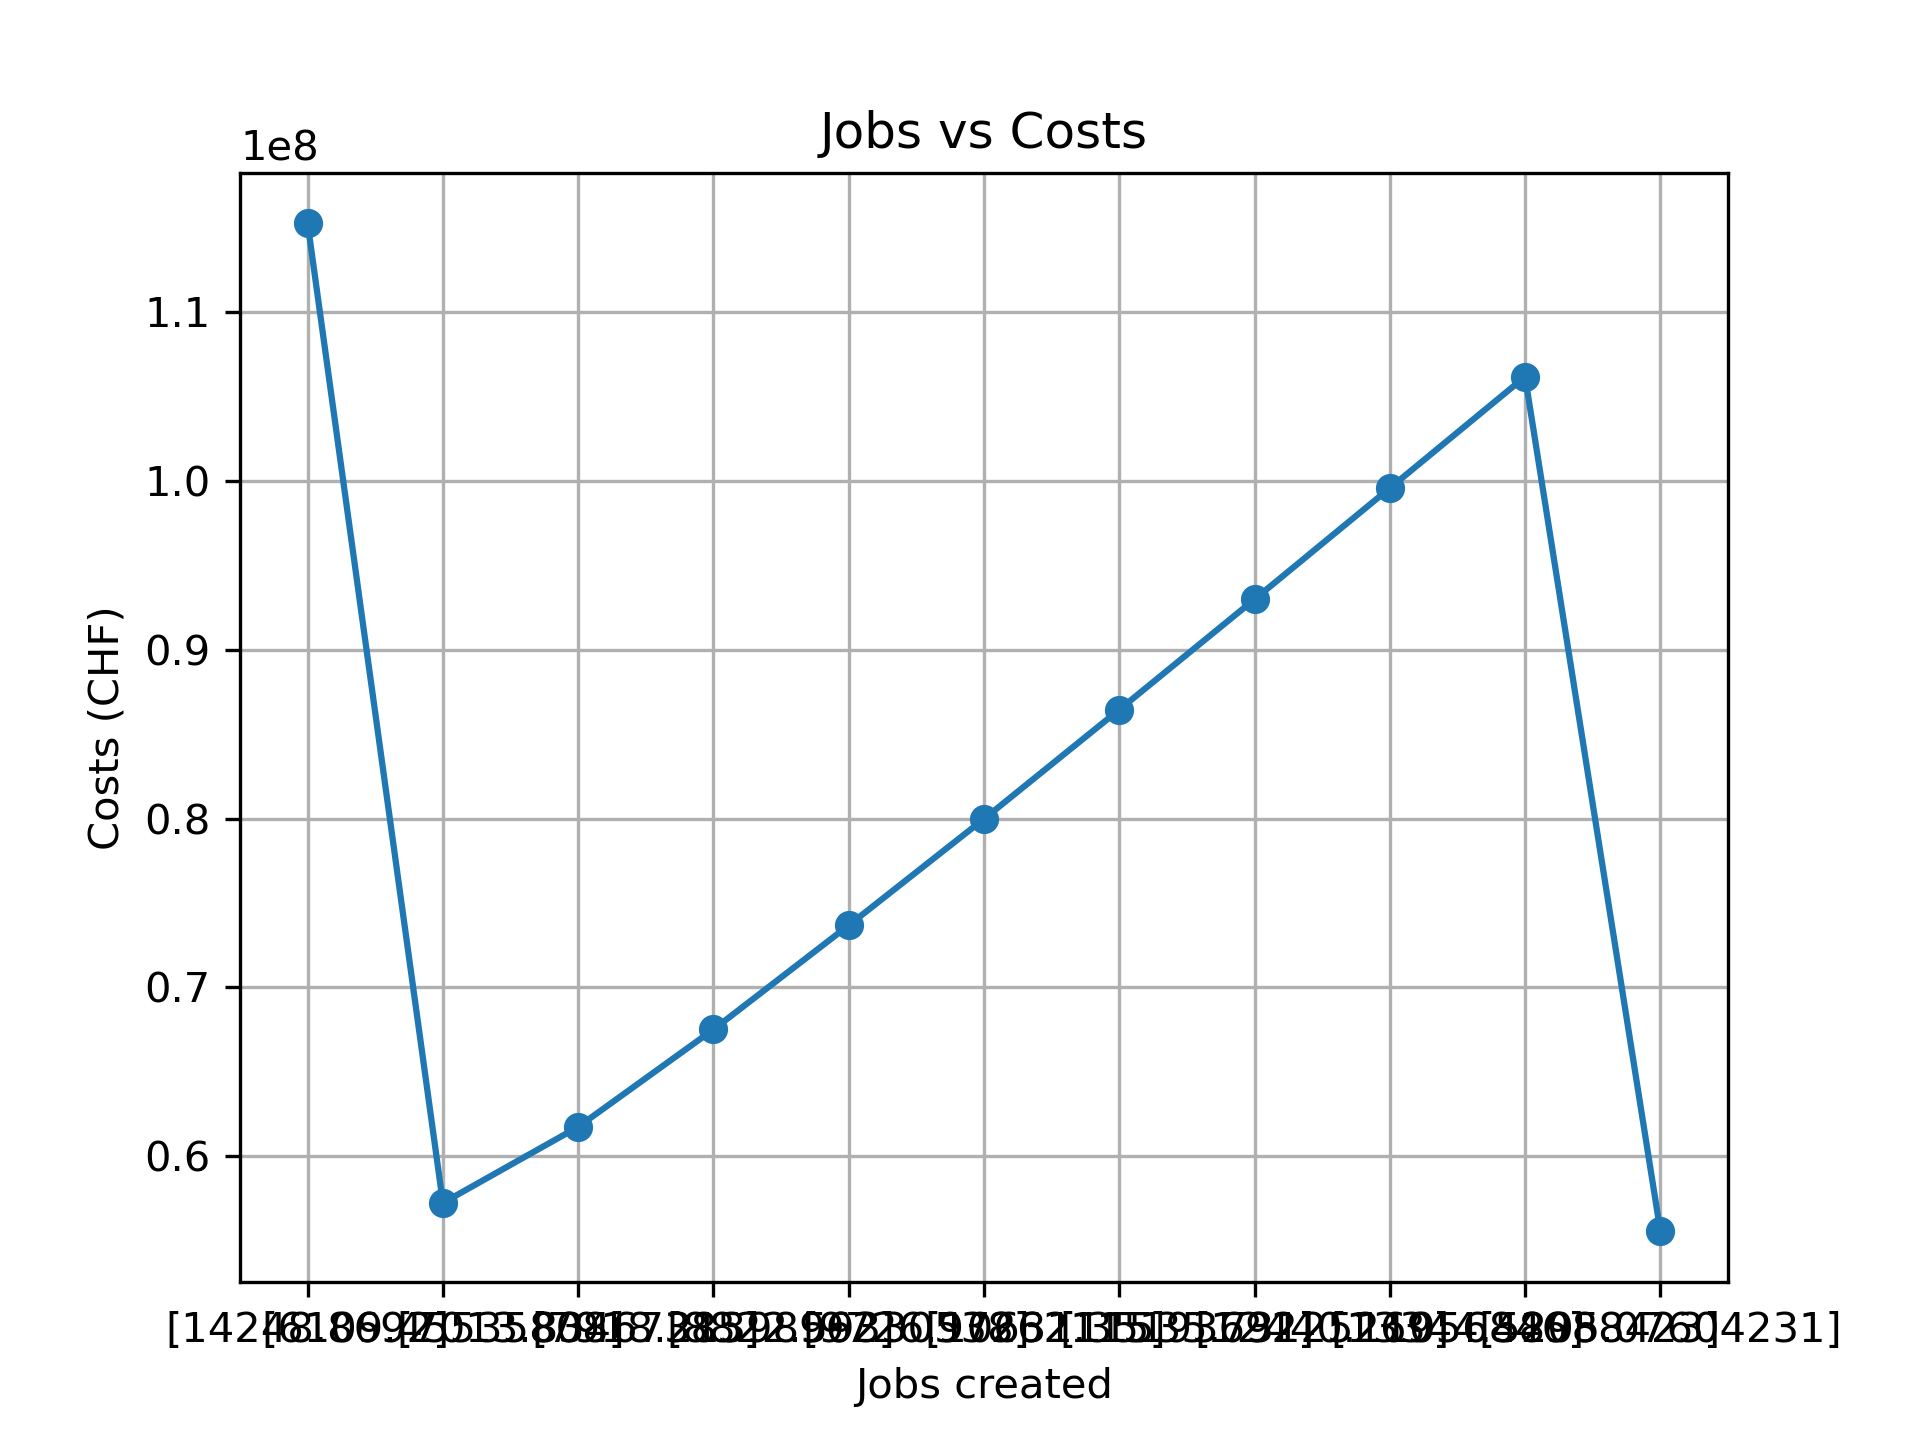
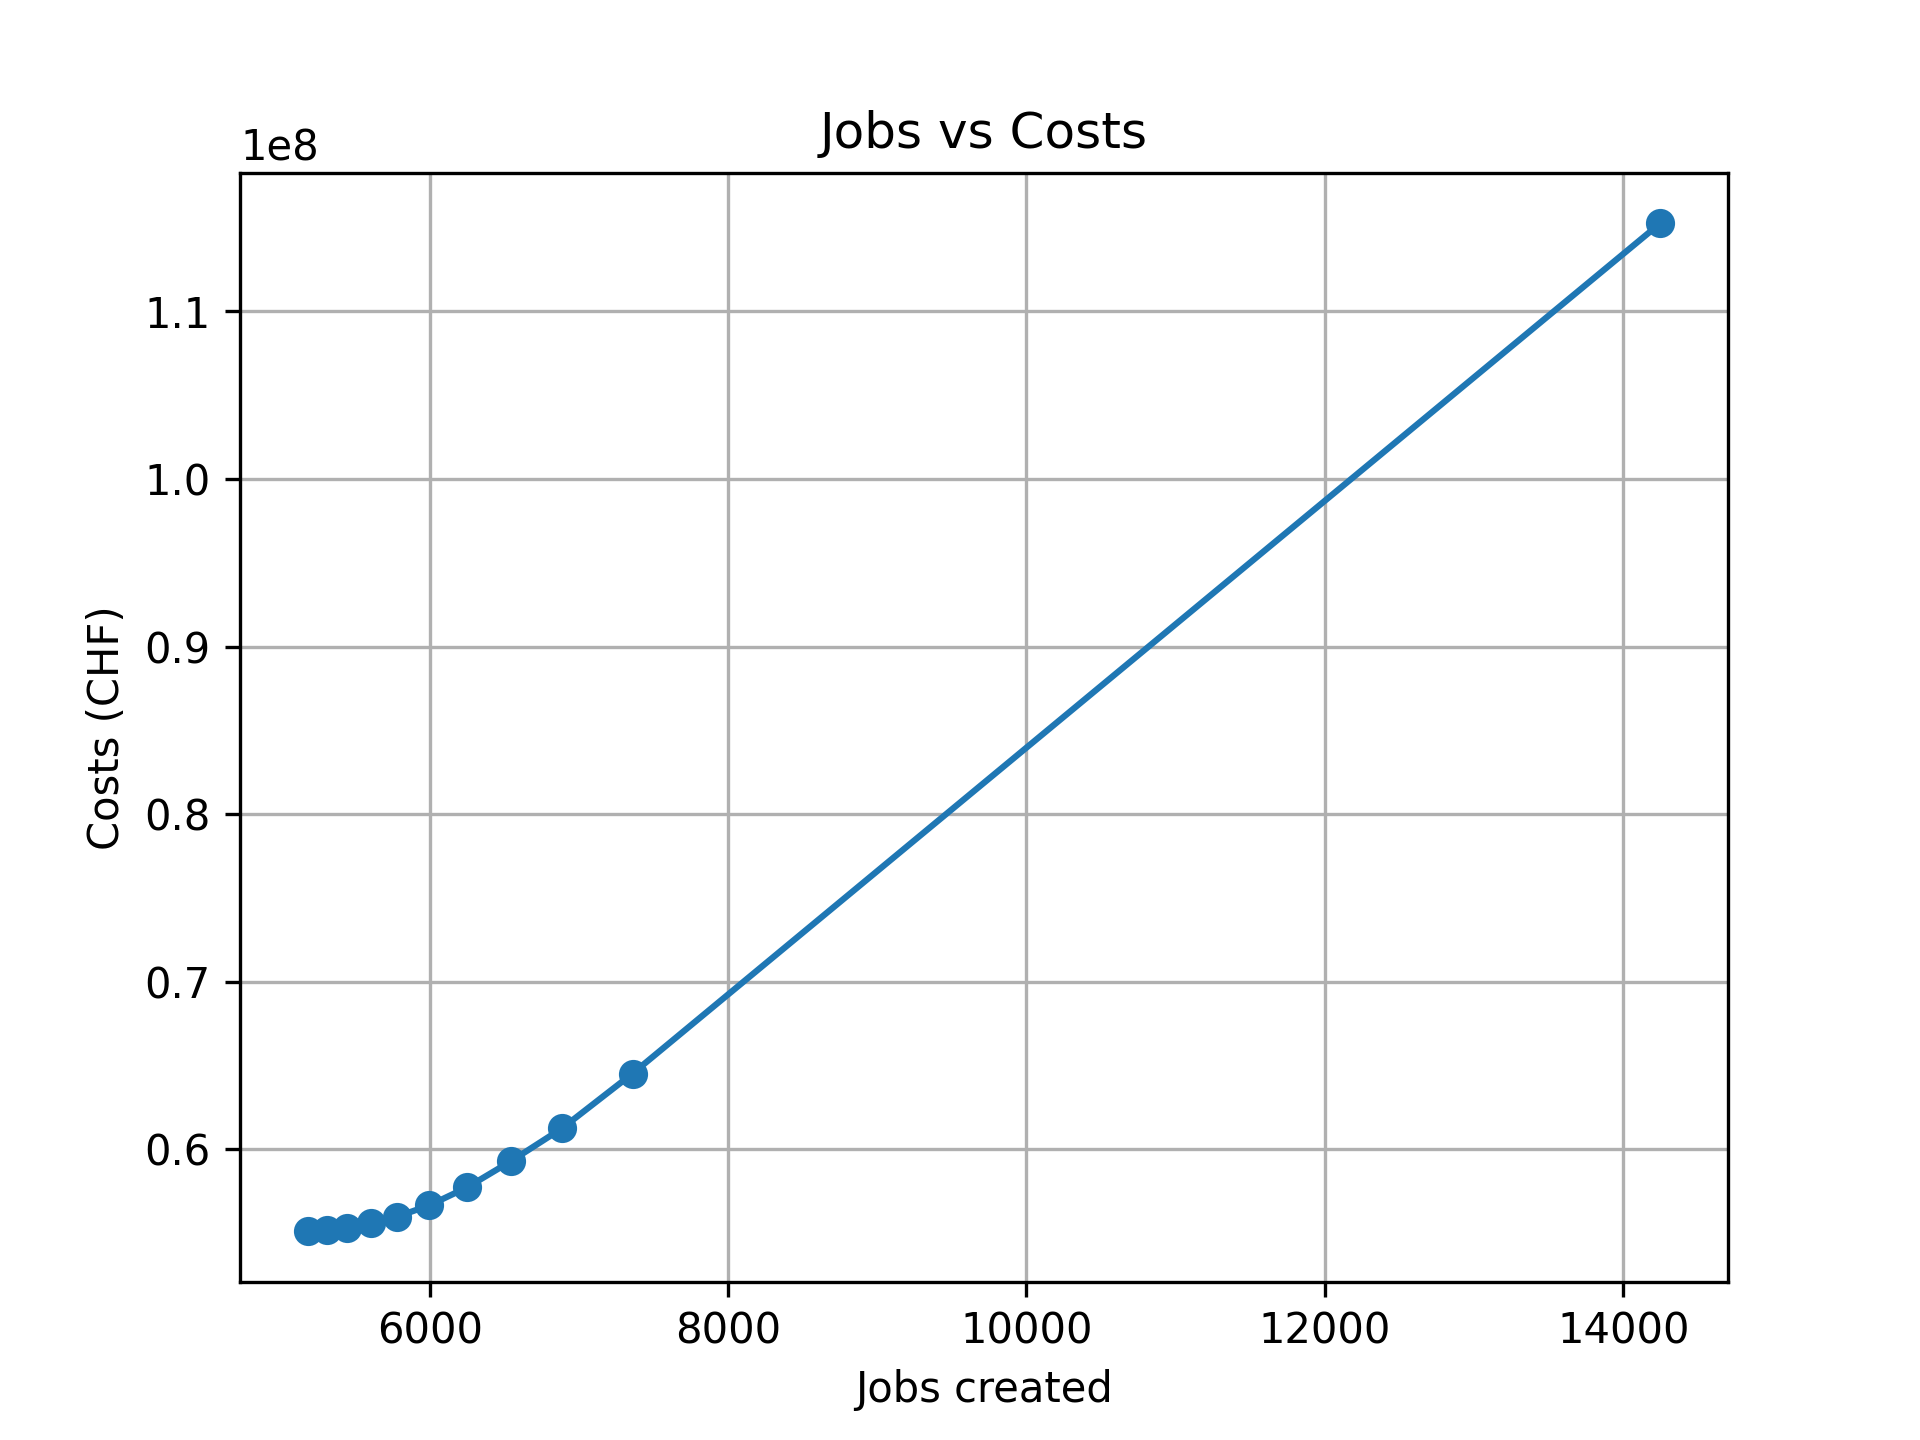
Fix jobs created plot

diff --git a/EnergyHub.py b/EnergyHub.py
@@ -114,10 +114,10 @@ price_gas = 0.21*1.4  # Natural gas price [CHF, EUR, USD/kWh]  # USD: 0.231*1.4;
 esc_gas = 0.02  # Escalation rate per year for natural gas price
 price_elec = 0.16  # Grid electricity price [CHF/kWh]
 esc_elec = 0.02  # Escalation rate per year for electricity price
-exp_price_elec = 0.0  # Feed-in tariff for exported electricity [CHF/kWh] #ToDO find this for Brazil ###### ---- asuumption germany feed in/ new assumption no export possible
+exp_price_elec = 0.0  # Feed-in tariff for exported electricity [CHF/kWh] #assumption no export possible
 esc_elec_exp = 0.02  # Escalation rate per year for feed-in tariff for exported electricity [%]
 co2_gas = 0.198  # Natural gas emission factor [kgCO2/kWh]
-co2_elec = 0.1295  # Electricity emission factor [kgCO2/kWh] #ToDO find this for Brazil https://www.climatiq.io/data/emission-factor/2ac52a91-5922-4f9f-8def-f4302f4ecf55
+co2_elec = 0.1295  # Electricity emission factor [kgCO2/kWh] # https://www.climatiq.io/data/emission-factor/2ac52a91-5922-4f9f-8def-f4302f4ecf55
 
 # Constraint definitions
 # ----------------------
@@ -163,7 +163,7 @@ Cap_gshp = cp.Variable(1)  # Capacity of ground-source heat pump [kW]
 P_in_gshp = cp.Variable(Horizon)  # Input energy to ground-source heat pump [kWh]
 P_out_gshp = cp.Variable(Horizon)  # Heat generation by ground-source heat pump [kWh]
 
-# GSHP constraints  --------- not considered
+# GSHP constraints
 # ----------------
 gshp_con = [Cap_gshp >= 0, P_out_gshp == P_in_gshp * eff_gshp, P_in_gshp >= 0, P_out_gshp >= 0, P_out_gshp <= Cap_gshp]
 
@@ -439,7 +439,8 @@ plt.show()
 
 
 
-
+"""
+"""
 #Multiobjective Optimization -> cost and jobs
 eta = [i/10 for i in range(1,10,1)]
 sol_cost = []
@@ -459,14 +460,13 @@ prob.solve(solver='SCIPY')
 sol_cost.append(cost.value)
 sol_jobs.append(jobs.value)
 sol_co2.append(co2.value)
-
 for i in eta:
     print('Multi Objective Optimization with eta = ', i)
-    jobs_con = [jobs >= sol_jobs[0]+i*(sol_jobs[1]-sol_jobs[0])]
-    jobs_max = [jobs <= 55361*25]
-    inv_max = [Inv <= sol_cost[0]*2.5]
-    #co2_con = [co2 <= sol_co2[1] + i * (sol_co2[0] - sol_co2[1])]
-    constraints_mo = constraints + jobs_con + jobs_max #+ inv_max
+    #jobs_con = [jobs >= sol_jobs[0]+i*(sol_jobs[1]-sol_jobs[0])]
+    #jobs_max = [jobs <= 55361*25]
+    #inv_max = [Inv <= sol_cost[0]*2.5]
+    co2_con = [co2 <= sol_co2[1] + i * (sol_co2[0] - sol_co2[1])]
+    constraints_mo = constraints + co2_con #+ jobs_con + jobs_max #+ inv_max
     #minimize cost and co2
     prob = cp.Problem(cp.Minimize(cost), constraints_mo)
     prob.solve(solver='SCIPY')
@@ -486,13 +486,14 @@ with open(file_name, 'w', newline='') as csvfile:
     writer.writerows(zip(list(sol_jobs), sol_cost))  # Writing data rows
 
 print("Data has been successfully saved to", file_name)
-
-
+"""
+"""
 # Plotting
 sol_jobs = pd.read_csv('jobs_costs_data.csv')['Jobs']
 sol_cost = pd.read_csv('jobs_costs_data.csv')['Costs']
 
-jobs = list(sol_jobs)
+
+jobs = [float(x[1:-1]) for x in sol_jobs]
 costs = [float(x[1:-1]) for x in sol_cost]
 jobs = jobs[1:] + [jobs[0]]
 costs = costs[1:] + [costs[0]]
@@ -508,8 +509,8 @@ plt.grid(True)
 plt.savefig('jobs_vs_cost.png', dpi=300)
 plt.show()
 
-
-
+"""
+"""
 #Investment Analysis
 #Parameters
 annual_income_per_persom = 155*12 #Income per person per year [US Dollar] # in CHF: 155*12; in USD: 170*12
